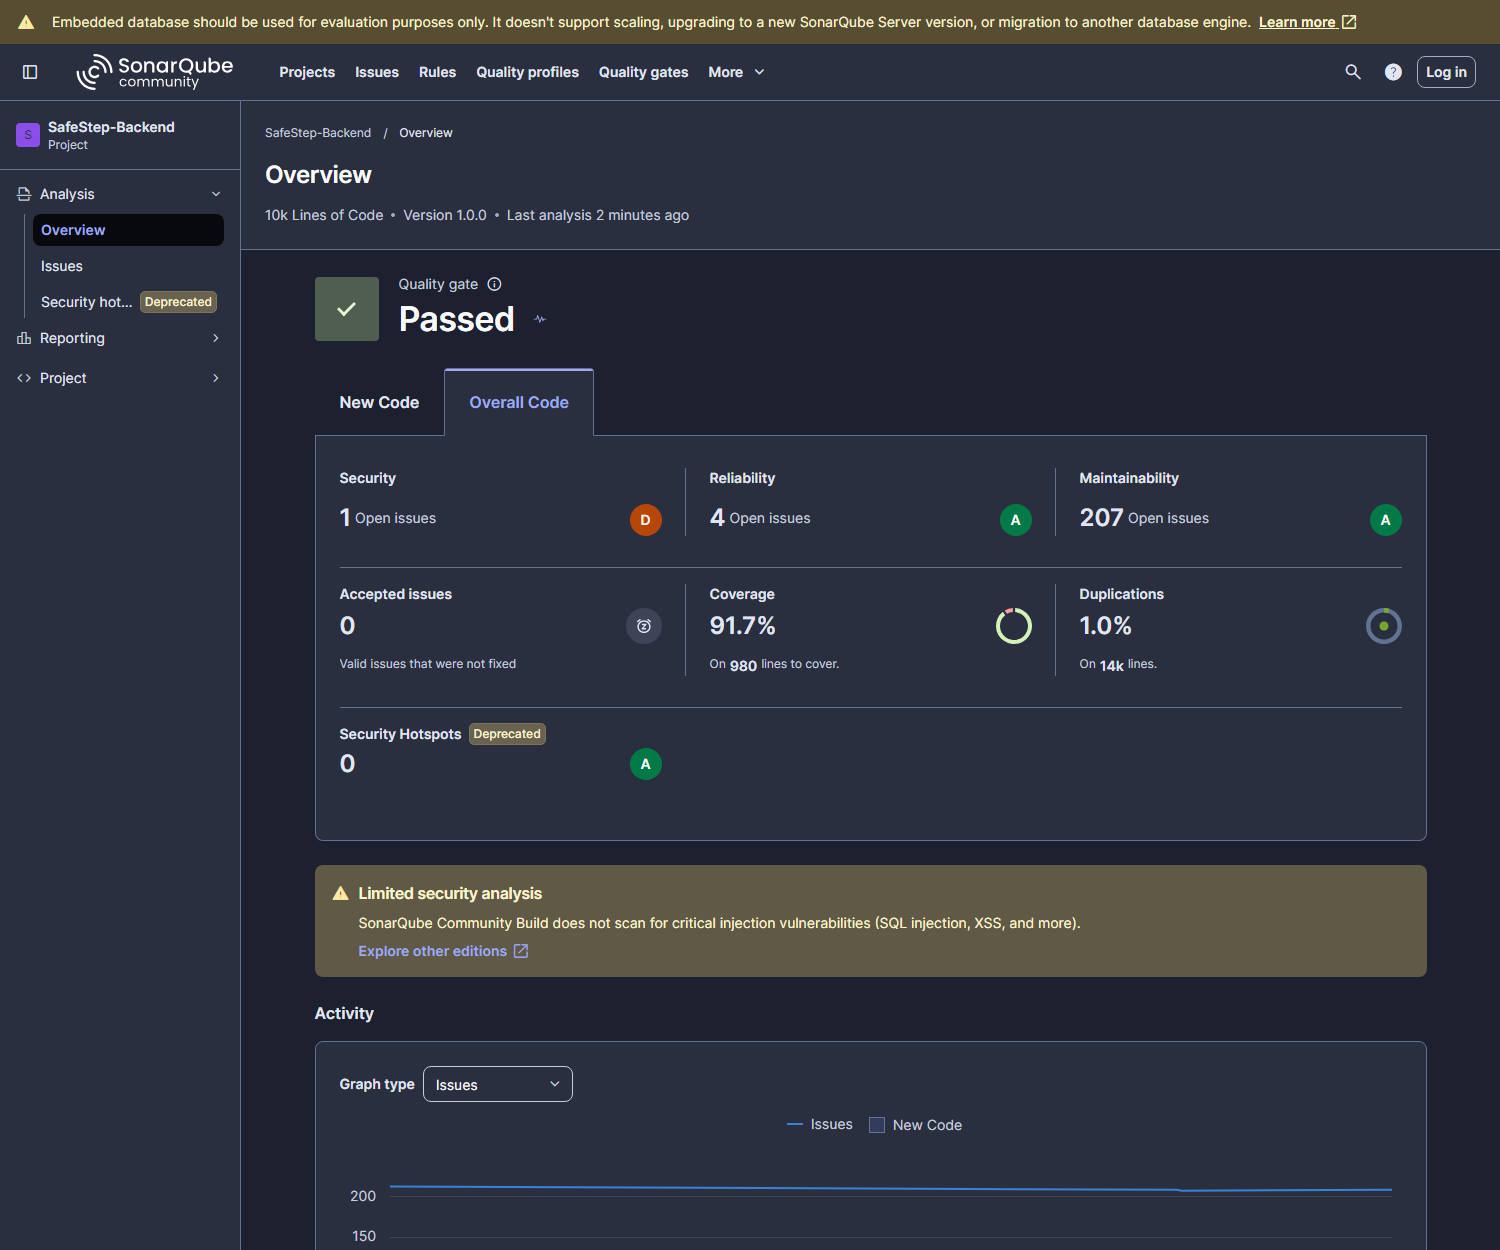
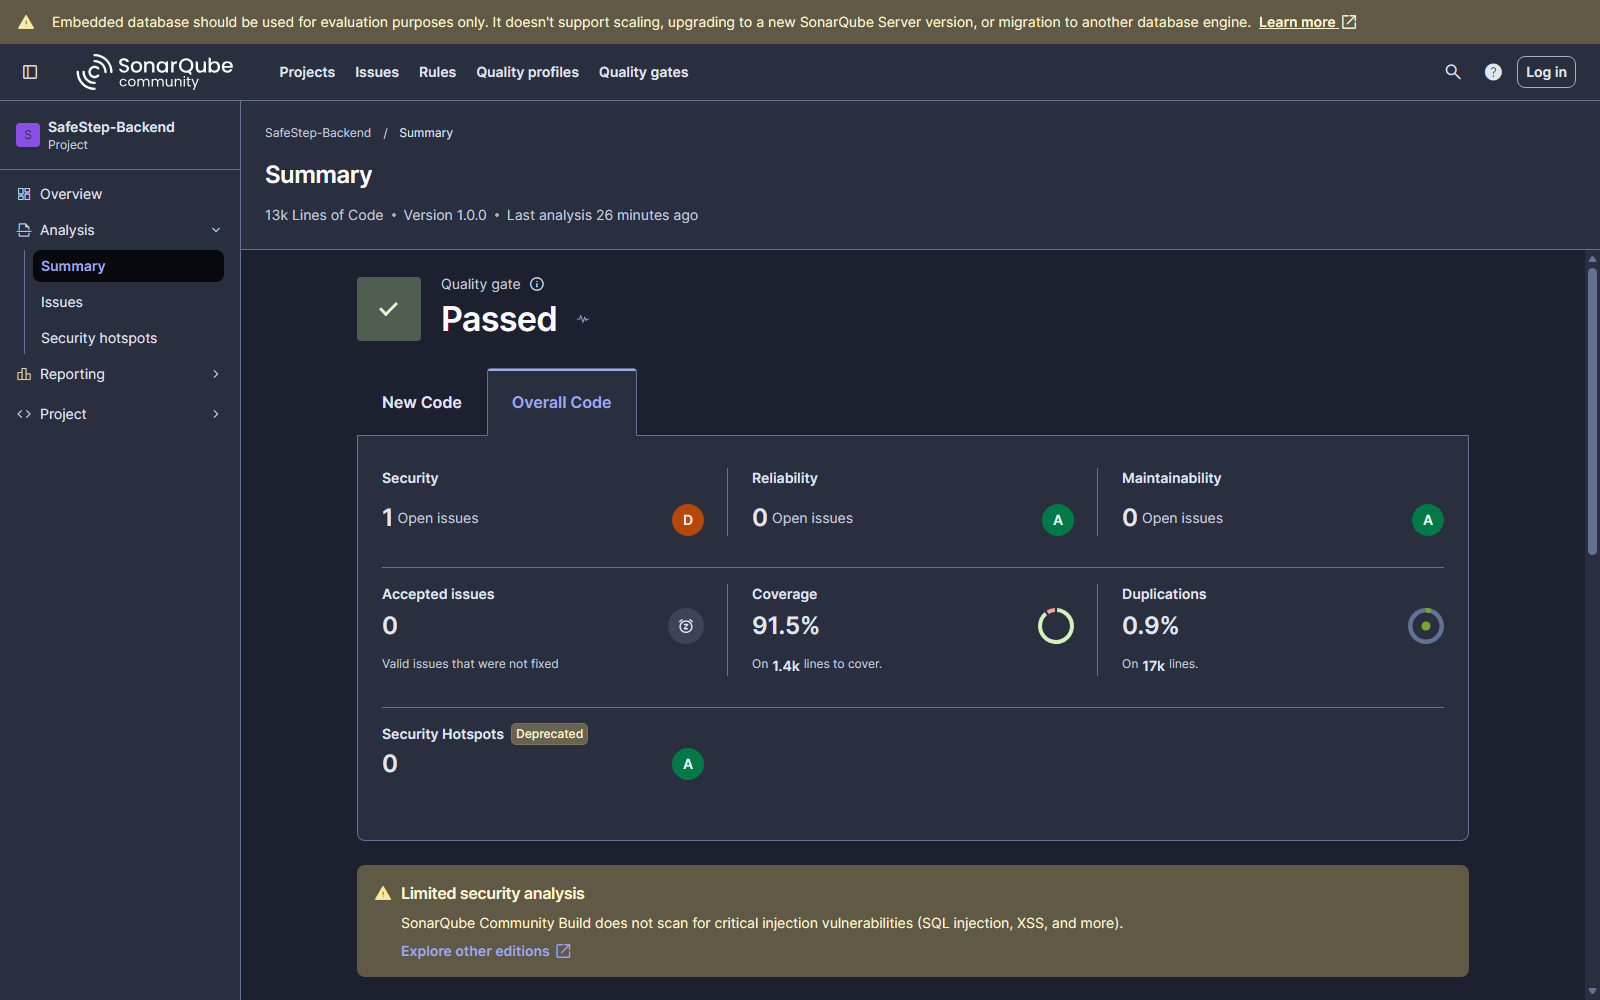
docs(report): document Jenkins build 6 with the extended profile in 7.1 and 7.2

diff --git a/markdown/content/chapter-7/7-1-ContinuousIntegration.md b/markdown/content/chapter-7/7-1-ContinuousIntegration.md
@@ -15,7 +15,7 @@ La integración continua de SafeStep se implementa con **Jenkins**, siguiendo la
 | Checkstyle | 14.3.0 (reglas de Google) | Compuerta de estilo: `checkstyle:check` falla el pipeline ante cualquier infracción |
 | JUnit Jupiter, Mockito, Cucumber | ver 6.1 | Suites de prueba que ejecuta el pipeline |
 | JaCoCo | 0.8.15 | Cobertura y umbral de 80 % |
-| SonarQube Community Build | 26.9 | Análisis de calidad y seguridad con Quality Gate |
+| SonarQube Community Build | 26.10 | Análisis de calidad y seguridad con Quality Gate |
 
 **Prácticas**
 
@@ -31,23 +31,25 @@ La integración continua de SafeStep se implementa con **Jenkins**, siguiendo la
 
 ## 7.1.2. Build & Test Suite Pipeline Components
 
-El pipeline completo tiene las etapas siguientes. Los tiempos corresponden a la ejecución #8 en Jenkins (4 min 11 s de principio a fin, resultado **SUCCESS**), salvo el de la etapa 3, que se añadió después y es el de la ejecución #5 del entorno actual.
+El pipeline completo tiene las etapas siguientes. Los tiempos corresponden a la ejecución #6 del entorno actual (3 min 58 s de principio a fin, resultado **SUCCESS**, rama `main`).
 
 | # | Etapa | Comando | Qué verifica o produce | Si falla | Tiempo |
 |---|-------|---------|------------------------|----------|--------|
-| 1 | Checkout SCM | Git | Descarga el `Jenkinsfile` y el código de `develop` | Se detiene | 1 s ||
-| 2 | Compile Project | `mvn clean compile` | El proyecto compila con JDK 26 | Se detiene | 28 s ||
-| 3 | Validate Checkstyle | `mvn checkstyle:check` | El código cumple las reglas de Google sin ninguna infracción; archiva `checkstyle-result.xml` | Se detiene (ver abajo y 6.2.1.1) | 6 s ||
-| 4 | Unit and BDD Tests | `mvn test` | 209 pruebas unitarias y de integración más 33 escenarios Cucumber; resultados JUnit y reporte Cucumber | Se detiene | 1 min 27 s ||
-| 5 | Validate Test Coverage | `mvn jacoco:check` | Cobertura de instrucciones ≥ 80 % sobre las clases medidas (resultado: 93.8 %) | Se detiene | 7 s ||
-| 6 | SonarQube Analysis | `mvn sonar:sonar` + `waitForQualityGate()` | Envía el análisis y espera el webhook de SonarQube con el resultado del Quality Gate | Se detiene si el gate no es `OK` | 1 min 21 s ||
-| 7 | Package Project | `mvn package -DskipTests` | Genera `safestep-platform-1.0.0.jar`, que se archiva con huella digital | Se detiene | 15 s ||
+| 1 | Checkout SCM | Git | Descarga el `Jenkinsfile` y el código de `main` | Se detiene | 1 s |
+| 2 | Compile Project | `mvn clean compile` | El proyecto compila con JDK 26 | Se detiene | 24 s |
+| 3 | Validate Checkstyle | `mvn checkstyle:check` | El código cumple las reglas de Google sin ninguna infracción; archiva `checkstyle-result.xml` | Se detiene (ver abajo y 6.2.1.1) | 13 s |
+| 4 | Unit and BDD Tests | `mvn test` | 209 pruebas unitarias y de integración más 33 escenarios Cucumber; resultados JUnit y reporte Cucumber | Se detiene | 56 s |
+| 5 | Validate Test Coverage | `mvn jacoco:check` | Cobertura de instrucciones ≥ 80 % sobre las clases medidas (resultado: 93.8 %) | Se detiene | 3 s |
+| 6 | SonarQube Analysis | `mvn sonar:sonar` + `waitForQualityGate()` | Envía el análisis y espera el webhook de SonarQube con el resultado del Quality Gate | Se detiene si el gate no es `OK` | 36 s |
+| 7 | Package Project | `mvn package -DskipTests` | Genera `safestep-platform-1.0.0.jar`, que se archiva con huella digital | Se detiene | 5 s |
+| 8 | Build Docker Image | `docker build` | Construye la imagen del backend (entrega continua, 7.2.2) | Se detiene | 1 min 21 s |
+| 9 | Publish Docker Image | `docker push` | Publica la imagen en Docker Hub (entrega continua, 7.2.2) | Se detiene | 15 s |
 
-En el entorno actual el mismo pipeline añade dos etapas al final, *Build Docker Image* y *Publish Docker Image*, que pertenecen a la entrega continua y se describen en 7.2.2.
+Jenkins muestra además las entradas *Declarative: Checkout SCM* y *Declarative: Post Actions*, que no son etapas del `Jenkinsfile`; con ellas la vista de etapas tiene diez columnas.
 
 <div align="center">
   <img src="../../assets/images/chapter-7/jenkins-pipeline-stage-view.png" alt="Stage View del pipeline de Jenkins"/>
-  <p><i><b>Figura 7.1.1.</b> Vista de etapas del job <code>safestep-backend</code> en Jenkins (ejecuciones #5 a #8). <b>Fuente</b>: Elaboración propia</i></p>
+  <p><i><b>Figura 7.1.1.</b> Vista de etapas del job <code>safestep-backend</code> en Jenkins del entorno anterior (ejecuciones #5 a #8, con siete etapas). <b>Fuente</b>: Elaboración propia</i></p>
 </div>
 
 **Historial de ejecuciones.** La ejecución #1 falló porque Jenkins bloquea por seguridad los checkouts de repositorios locales; se habilitó explícitamente (`hudson.plugins.git.GitSCM.ALLOW_LOCAL_CHECKOUT`) porque el job lee el repositorio montado desde el anfitrión. Las ejecuciones #2 a #4 terminaron en SUCCESS e incluían además etapas de construcción de imagen y pruebas de API en contenedor; esas etapas se retiraron en esa entrega porque la entrega y el despliegue continuos quedaron fuera de su alcance; se reincorporaron después y se documentan en 7.2. La ejecución #5 fue la primera del pipeline de integración continua actual. Después de corregir los hallazgos de SonarQube (ver abajo), la ejecución #6 **falló a propósito del Quality Gate**: el código nuevo tenía una incidencia de estilo (`java:S1452`, un tipo genérico `ResponseEntity<?>` en el manejador nuevo) y el pipeline se detuvo en la etapa de SonarQube sin generar el JAR. Se corrigió el tipo de retorno y la ejecución #7 terminó en SUCCESS. La ejecución #8, con la documentación OpenAPI corregida y las pruebas que la protegen, también terminó en SUCCESS, ahora con 242 pruebas.
@@ -68,22 +70,24 @@ En el entorno actual el mismo pipeline añade dos etapas al final, *Build Docker
 
 <div align="center">
   <img src="../../assets/images/chapter-7/sonarqube-dashboard.png" alt="Panel de SonarQube del backend"/>
-  <p><i><b>Figura 7.1.4.</b> Panel de SonarQube del backend SafeStep (código completo). <b>Fuente</b>: Elaboración propia</i></p>
+  <p><i><b>Figura 7.1.4.</b> Panel de SonarQube del backend SafeStep (código completo) tras la ejecución #6 de Jenkins, con el perfil <i>Sonar way extended</i>. <b>Fuente</b>: Elaboración propia</i></p>
 </div>
 
 | Métrica de SonarQube | Valor |
 |----------------------|-------|
-| Líneas de código | 9,964 en 370 archivos |
+| Perfil de calidad de Java | *Sonar way extended* (337 reglas) |
+| Líneas de código | 12,858 (17,311 líneas en total) en 370 archivos |
 | Quality Gate (Sonar way) | **Aprobado** |
-| Cobertura | 91.7 % sobre 980 líneas medibles |
-| Duplicación | 1.0 % |
+| Cobertura | 91.5 % sobre 1,390 líneas medibles |
+| Duplicación | 0.9 % |
 | Vulnerabilidades | 1 (calificación de seguridad D; es el CSRF deshabilitado a propósito) |
 | Bugs | 0 (calificación de fiabilidad A) |
-| Code smells | 207 (calificación de mantenibilidad A) |
-| Incidencias con impacto en fiabilidad | 4, de severidad informativa (`java:S8688`); no son bugs |
+| Code smells | 0 (calificación de mantenibilidad A) |
 | Hotspots de seguridad | 0 |
 
-El Quality Gate «Sonar way» evalúa únicamente el **código nuevo**. En el primer análisis del proyecto no existía código nuevo que evaluar y el gate aprobó, por lo que las incidencias existentes se trataron como deuda técnica y se listaron en lugar de ocultarse. En los análisis posteriores sí hay código nuevo, y el gate lo evalúa con tres condiciones: cobertura del código nuevo de al menos 80 % (resultado: 100 %), duplicación menor a 3 % (0 %) y ninguna incidencia nueva (0).
+Estas cifras corresponden a la ejecución #6 del entorno actual (versión `1.0.0` en SonarQube, 8 de noviembre de 2026) y reemplazan a las de la ejecución #8 del entorno anterior (9,964 líneas, 91.7 % de cobertura y 207 *code smells*), que se tomaron con otra versión del código y del servidor. Las líneas de código aumentaron porque la limpieza de Checkstyle (6.2.1.1) partió líneas largas con *google-java-format*, y los *code smells* bajaron a cero porque se corrigieron las 86 incidencias que aparecieron al cambiar al perfil *extended* (6.2.1.2).
+
+El Quality Gate «Sonar way» evalúa únicamente el **código nuevo**. En el primer análisis del proyecto no existía código nuevo que evaluar y el gate aprobó, por lo que las incidencias existentes se trataron como deuda técnica y se listaron en lugar de ocultarse. En los análisis posteriores el gate evalúa el código nuevo con tres condiciones: cobertura de al menos 80 %, duplicación menor a 3 % y ninguna incidencia nueva. En la ejecución #6 el commit analizado es el mismo que ya había analizado SonarQube en la tercera tanda de correcciones (6.2.1.2), de modo que no hay código nuevo: el gate evalúa solo la condición de incidencias nuevas (0) y aprueba.
 
 **Hallazgos de seguridad y fiabilidad (6.2.1.2).** El primer análisis reportó 2 vulnerabilidades y 3 bugs. El equipo corrigió los hallazgos que eran reales y dejó, documentada, la que es una decisión de diseño:
 
@@ -96,7 +100,7 @@ El Quality Gate «Sonar way» evalúa únicamente el **código nuevo**. En el pr
 
 <div align="center">
   <img src="../../assets/images/chapter-7/sonarqube-issues.png" alt="Incidencias de seguridad y fiabilidad en SonarQube"/>
-  <p><i><b>Figura 7.1.5.</b> Vulnerabilidades y bugs que SonarQube mantiene abiertos tras las correcciones (solo el CSRF deshabilitado). <b>Fuente</b>: Elaboración propia</i></p>
+  <p><i><b>Figura 7.1.5.</b> Única incidencia que SonarQube mantiene abierta en el backend tras las correcciones: el CSRF deshabilitado a propósito. <b>Fuente</b>: Elaboración propia</i></p>
 </div>
 
 La corrección se verificó de tres formas: pruebas nuevas (una unitaria y tres de integración por HTTP sobre el cuerpo ilegible y las reglas de CORS), la ejecución completa de Jenkins con las 238 pruebas de entonces (ejecución #7) y una consulta real al backend levantado, que respondió 400 al JSON mal formado, aceptó la petición previa (*preflight*) del frontend publicado y rechazó con 403 la de un origen desconocido.
@@ -123,6 +127,13 @@ La corrección se verificó de tres formas: pruebas nuevas (una unitaria y tres 
 <div align="center">
   <img src="../../assets/images/chapter-7/jenkins-checkstyle-etapas-rojo-verde.png" alt="Vista de etapas de Jenkins con las ejecuciones 4 y 5"/>
   <p><i><b>Figura 7.1.9.</b> Vista de etapas del job <code>safestep-backend</code>: la ejecución #5 (arriba) pasa las diez etapas y la ejecución #4 (abajo) aparece en rojo por la compuerta de estilo. <b>Fuente</b>: Elaboración propia</i></p>
+</div>
+
+**Ejecución con el perfil *Sonar way extended*.** El 8 de noviembre de 2026 se cambió el proyecto `safestep-backend` al perfil *Sonar way extended* y se corrigieron las incidencias que aparecieron (6.2.1.2). La ejecución #6, sobre `main` con las tres confirmaciones de esas correcciones (`7daa9dd`, `f105e82` y `d6afc1a`), pasó las diez entradas de la vista de etapas: 242 pruebas aprobadas sin fallos ni omisiones, cobertura de JaCoCo de 93.8 %, Quality Gate **Passed** y la imagen publicada en Docker Hub. Dura 3 min 58 s, y la etapa de SonarQube, que ahora no encuentra incidencias de mantenibilidad, tarda 36 s.
+
+<div align="center">
+  <img src="../../assets/images/chapter-7/jenkins-ejecucion-6-extended.png" alt="Vista de etapas de Jenkins con la ejecución 6 en verde y el Quality Gate aprobado"/>
+  <p><i><b>Figura 7.1.10.</b> Vista de etapas del job <code>safestep-backend</code>: la ejecución #6 (arriba) pasa todas las etapas con el perfil <i>Sonar way extended</i>, con el Quality Gate <i>Passed</i> y las pruebas sin fallos; la #5 es la ejecución verde de la compuerta de estilo y la #4 la ejecución roja. <b>Fuente</b>: Elaboración propia</i></p>
 </div>
 
 **Cómo reproducir el entorno de CI:**

diff --git a/markdown/content/conclusiones.md b/markdown/content/conclusiones.md
@@ -14,7 +14,7 @@ Durante el Sprint 3 se implemento el backend de SafeStep con Spring Boot, Java, 
 
 Durante el Sprint 4 se fortalecio el producto con la implementacion de IAM y pagos con Stripe tanto en frontend como en backend. La autenticacion con JWT, las rutas protegidas, el manejo de perfil de usuario, la integracion con Stripe Checkout y la persistencia en PostgreSQL desplegado en Render hicieron que SafeStep pasara de ser una simulacion academica a una aplicacion web mas cercana a un entorno real. Este sprint tambien permitio validar flujos criticos como registro, inicio de sesion, compra de productos, confirmacion de pago y despliegue publico.
 
-Durante el Sprint 5 el foco se desplazo de construir funcionalidades a demostrar y proteger su calidad. Se incorporaron al Product Backlog el panel de administracion, la gestion de roles y el canje de cupones con SafeCoins (US57 a US61) junto con siete technical stories de pruebas e integracion continua (TS25 a TS31), y se construyeron tres suites automatizadas: 209 pruebas unitarias y de integracion, 33 escenarios BDD con Cucumber y 36 escenarios de API con Karate. La cobertura de instrucciones del codigo de aplicacion paso de 44.3 % a 93.8 % y el build exige ahora un minimo de 80 %. Las pruebas unitarias y BDD se ejecutan dentro de un pipeline de Jenkins que tambien exige el estilo de Google con Checkstyle (falla ante una sola infraccion), verifica la cobertura, analiza el codigo con SonarQube y empaqueta el backend; la ultima ejecucion termino en exito en 3 minutos y 42 segundos. Las pruebas de API se ejecutan contra una instancia local del backend. Ademas, el equipo desplego por su cuenta el frontend, el backend y la base de datos en Render (Static Site, Web Service con Docker y PostgreSQL 18), con CORS restringido al frontend publicado, y verifico los tres con pruebas de humo contra las URL publicas.
+Durante el Sprint 5 el foco se desplazo de construir funcionalidades a demostrar y proteger su calidad. Se incorporaron al Product Backlog el panel de administracion, la gestion de roles y el canje de cupones con SafeCoins (US57 a US61) junto con siete technical stories de pruebas e integracion continua (TS25 a TS31), y se construyeron tres suites automatizadas: 209 pruebas unitarias y de integracion, 33 escenarios BDD con Cucumber y 36 escenarios de API con Karate. La cobertura de instrucciones del codigo de aplicacion paso de 44.3 % a 93.8 % y el build exige ahora un minimo de 80 %. Las pruebas unitarias y BDD se ejecutan dentro de un pipeline de Jenkins que tambien exige el estilo de Google con Checkstyle (falla ante una sola infraccion), verifica la cobertura, analiza el codigo con SonarQube y empaqueta el backend; la ultima ejecucion termino en exito en 3 minutos y 58 segundos. Las pruebas de API se ejecutan contra una instancia local del backend. Ademas, el equipo desplego por su cuenta el frontend, el backend y la base de datos en Render (Static Site, Web Service con Docker y PostgreSQL 18), con CORS restringido al frontend publicado, y verifico los tres con pruebas de humo contra las URL publicas.
 
 El trabajo de verificacion tambien produjo hallazgos que el equipo decidio documentar y, cuando eran reales, corregir: la API respondia HTTP 500 en lugar de 400 ante un JSON mal formado, CORS estaba abierto a cualquier origen y SonarQube senalaba tres bugs menores. Los tres problemas se corrigieron y se verificaron con pruebas nuevas y con el pipeline; el Quality Gate, que evalua el codigo nuevo, llego a fallar una vez por una incidencia de estilo en el codigo recien escrito y volvio a aprobar tras corregirla. Checkstyle, que al inicio reportaba 8,128 observaciones de estilo, se llevo a cero infracciones en el backend y ahora detiene el pipeline si reaparece alguna. Quedan como puntos abiertos que SonarQube mantiene una vulnerabilidad por la proteccion CSRF deshabilitada, aceptable en una API con JWT, que el modulo de perfiles tiene una cobertura de 62.1 %, y que el plan gratuito de la base de datos en Render caduca el 7 de noviembre de 2026 y el backend gratuito se suspende por inactividad y tarda varios minutos en despertar.
 
@@ -46,7 +46,7 @@ En sintesis, el contraste entre Lean UX y los resultados obtenidos muestra que S
 
 **Mediano plazo:** Se recomienda ampliar las simulaciones con niveles de dificultad, mayor cantidad de pasos y escenarios mas detallados. Esto permitiria atender tanto a usuarios principiantes como a brigadistas o personas con experiencia previa en primeros auxilios.
 
-**Corto plazo:** Se recomienda migrar o recrear la base de datos de Render antes del 7 de noviembre de 2026 si el producto sigue en uso, activar un servicio externo que despierte el backend antes de las demostraciones, subir la cobertura del modulo de perfiles, revisar los 207 code smells que reporta SonarQube y extender el analisis de estilo de Checkstyle a las pruebas (src/test), que hoy quedan fuera de su alcance. Tambien conviene marcar en SonarQube como revisada la regla de CSRF, que es una decision de diseno.
+**Corto plazo:** Se recomienda migrar o recrear la base de datos de Render antes del 7 de noviembre de 2026 si el producto sigue en uso, activar un servicio externo que despierte el backend antes de las demostraciones, subir la cobertura del modulo de perfiles, mantener en cero los code smells que reporta SonarQube con el perfil Sonar way extended (hoy 0 tras corregir 86 en el backend y 11 incidencias en el frontend), subir la cobertura de pruebas del frontend (0.7 %) y extender el analisis de estilo de Checkstyle a las pruebas (src/test), que hoy quedan fuera de su alcance. Tambien conviene marcar en SonarQube como revisada la regla de CSRF, que es una decision de diseno.
 
 **Mediano plazo:** Se recomienda ampliar las pruebas a los flujos que hoy quedan fuera (pago con Stripe y finalizacion de simulaciones), incorporar pruebas de sistema de la aplicacion web y movil y extender el pipeline con la entrega y el despliegue continuos.
 

diff --git a/markdown/content/chapter-7/7-2-Continuous-Delivery.md b/markdown/content/chapter-7/7-2-Continuous-Delivery.md
@@ -305,6 +305,9 @@ Para ejecutarla necesita una base PostgreSQL y las mismas variables de entorno d
 | #1 | ABORTED | Las etapas de compilación, estilo, pruebas y cobertura terminaron en verde. En la etapa de SonarQube, el análisis terminó bien, pero Jenkins esperó 10 minutos el resultado del Quality Gate porque SonarQube no pudo entregar el aviso (*webhook*): rechaza por defecto direcciones privadas y `jenkins-master` resuelve a una dirección privada de la red de Docker. Se resolvió con `SONAR_VALIDATEWEBHOOKS: "false"` en el servicio de SonarQube del `docker-compose.yml` de `ci/` (7.1.2) |
 | #2 | SUCCESS | Nueve entradas en la vista de etapas, incluida *Build Docker Image* con `--load`. Quality Gate aprobado |
 | #3 | SUCCESS | Diez entradas en la vista de etapas: se agrega *Publish Docker Image*. Imagen publicada en Docker Hub |
+| #4 | FAILURE | Commit temporal con una infracción deliberada de Checkstyle: el pipeline se detiene en *Validate Checkstyle* y omite las etapas siguientes (7.1.2) |
+| #5 | SUCCESS | Backend sin infracciones de Checkstyle: las diez entradas en verde (7.1.2) |
+| #6 | SUCCESS | Perfil *Sonar way extended* y 86 incidencias corregidas (6.2.1.2): 242 pruebas, Quality Gate aprobado y la imagen publicada de nuevo en Docker Hub, en 3 min 58 s (7.1.2) |
 
 **Limitaciones y mejoras identificadas.**
 

diff --git a/markdown/content/chapter-6/6-1-Testing-Suites-&-Validation.md b/markdown/content/chapter-6/6-1-Testing-Suites-&-Validation.md
@@ -84,7 +84,7 @@ void redeemedCoupon_IsUsedOnlyOnce() {
 | `simulation` | 11 | 91.2 % |
 | `profiles` | 7 | 62.1 % |
 
-El contexto `profiles` es el único por debajo del 80 % por sí solo; el umbral se evalúa sobre el conjunto de clases medidas, y la cobertura de `profiles` queda como deuda técnica identificada. SonarQube, que cuenta las líneas y no las instrucciones, reporta 91.7 % de cobertura sobre 980 líneas medibles (ver 7.1.2).
+El contexto `profiles` es el único por debajo del 80 % por sí solo; el umbral se evalúa sobre el conjunto de clases medidas, y la cobertura de `profiles` queda como deuda técnica identificada. SonarQube, que cuenta las líneas y no las instrucciones, reporta 91.5 % de cobertura sobre 1,390 líneas medibles (ver 7.1.2).
 
 <div align="center">
   <img src="../../assets/images/chapter-6/jacoco-coverage-report.png" alt="Reporte de cobertura JaCoCo"/>
